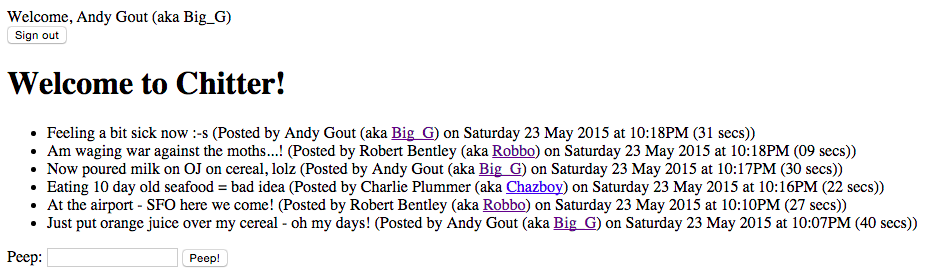
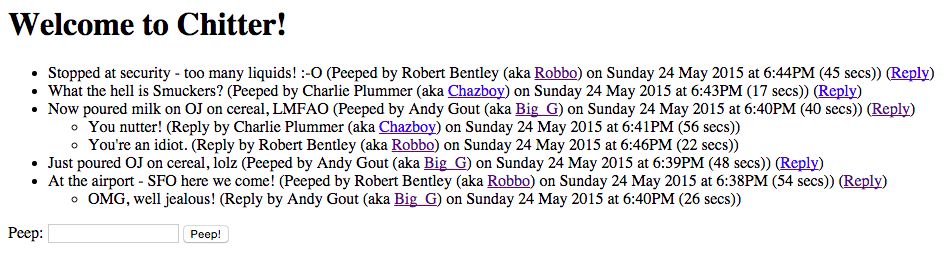
Further tests/README.md updated

Changed region(s): [[0.0, 0.248, 0.9946, 0.8268], [0.0, 0.0276, 0.3108, 0.1654], [0.0, 0.8819, 0.2487, 0.9646]]

diff --git a/spec/features/replying_to_peeps_spec.rb b/spec/features/replying_to_peeps_spec.rb
@@ -8,26 +8,26 @@ feature 'User replies to peep of another user' do
   before(:each) do
     sign_up
     add_peep('Peep #1')
-    sign_up('Robbo', 'Robert Bentley', 'sample@test.com', 'PandaFire123!', 'PandaFire123!')
-    click_link('Reply')
-    fill_in :text, with: 'Reply #1'
-    click_button('Reply!')
+    sign_up('Robbo', 'Robert Bentley', 'sample@test.com', 'FirePanda789!', 'FirePanda789!')
+    add_reply('Reply #1')
+    add_reply('Reply #2')
   end
 
   scenario 'when on the home page' do
     expect(page).to have_content('Reply #1')
   end
 
-  # scenario 'with username and name for each peep' do
-  #   expect(page).to have_content('Posted by Andy Gout (aka Big_G)')
-  # end
+  scenario 'with username and name for each reply' do
+    expect(page.first('li ul li')).to have_content('Reply by Robert Bentley (aka Robbo)')
+  end
 
-  # scenario 'with timestamp of when each peep was posted' do
-  #   expect(page).to have_content(/[A-Z][a-z]{5,8} [123]*[0-9] [A-Z][a-z]{2,8} [0-9]{4} at [1]*[0-9]:[0-5][0-9](A|P)M \([0-5][0-9] secs\)/)
-  # end
+  scenario 'with timestamp of when reply was posted' do
+    expect(page.first('li ul li')).to have_content(/[A-Z][a-z]{5,8} [123]*[0-9] [A-Z][a-z]{2,8} [0-9]{4} at [1]*[0-9]:[0-5][0-9](A|P)M \([0-5][0-9] secs\)/)
+  end
 
-  # scenario 'in reverse chronology' do
-  #   expect(page).to have_selector('li:nth-child(1)', text: 'Peep #2')
-  # end
+  scenario 'and sees replies displayed in chronological order' do
+    expect(page).to have_selector('li ul li:nth-child(1)', text: 'Reply #1')
+    expect(page).to have_selector('li ul li:nth-child(2)', text: 'Reply #2')
+  end
 
 end

diff --git a/spec/reply_spec.rb b/spec/reply_spec.rb
@@ -1,0 +1,42 @@
+require 'spec_helper'
+
+describe Reply do
+
+  context 'Checking DataMapper can create and delete entries' do
+
+    it 'Should be created and retrieved from the db' do
+      User.create(username: 'Big G',
+                  name: 'Andy Gout',
+                  email: 'example@test.com',
+                  password: 'P0tat0M0nkey123!',
+                  password_confirmation: 'P0tat0M0nkey123!')
+      user1 = User.first
+      User.create(username: 'Robbo',
+                  name: 'Robert Bentley',
+                  email: 'sample@test.com',
+                  password: 'FirePanda789!',
+                  password_confirmation: 'FirePanda789!')
+      user2 = User.last
+      Peep.create(text: 'Peep #1',
+                  time: Time.now,
+                  user_id: user1.id)
+      peep = Peep.first
+      expect(Reply.count).to eq(0)
+      time = Time.now
+      Reply.create(text: 'Reply #1',
+                   time: time,
+                   user_id: user2.id,
+                   peep_id: peep.id)
+      expect(Reply.count).to eq(1)
+      reply = Reply.first
+      expect(reply.text).to eq('Reply #1')
+      expect(reply.time).to eq(time)
+      expect(reply.user_id).to eq(user2.id)
+      expect(reply.peep_id).to eq(peep.id)
+      reply.destroy
+      expect(Reply.count).to eq(0)
+    end
+
+  end
+
+end

diff --git a/spec/features/helpers/session.rb b/spec/features/helpers/session.rb
@@ -3,8 +3,8 @@ module SessionHelpers
   def sign_up(username = 'Big G',
               name = 'Andy Gout',
               email = 'example@test.com',
-              password = 'P0tat0M0nkey!',
-              password_confirmation = 'P0tat0M0nkey!')
+              password = 'P0tat0M0nkey123!',
+              password_confirmation = 'P0tat0M0nkey123!')
     visit '/users/new'
     expect(page.status_code).to eq(200)
     fill_in :username, with: username
@@ -17,16 +17,22 @@ module SessionHelpers
 
   def sign_in(email, password)
     visit '/sessions/new'
-    fill_in 'email', with: email
-    fill_in 'password', with: password
+    fill_in :email, with: email
+    fill_in :password, with: password
     click_button 'Sign in'
   end
 
   def add_peep(text)
     within('#new-peep') do
-      fill_in 'text', with: text
+      fill_in :text, with: text
       click_button 'Peep!'
     end
+  end
+
+  def add_reply(text)
+    click_link('Reply')
+    fill_in :text, with: text
+    click_button('Reply!')
   end
 
 end

diff --git a/spec/peep_spec.rb b/spec/peep_spec.rb
@@ -1,0 +1,30 @@
+require 'spec_helper'
+
+describe Peep do
+
+  context 'Checking DataMapper can create and delete entries' do
+
+    it 'Should be created and retrieved from the db' do
+      User.create(username: 'Big G',
+                  name: 'Andy Gout',
+                  email: 'example@test.com',
+                  password: 'P0tat0M0nkey123!',
+                  password_confirmation: 'P0tat0M0nkey123!')
+      user = User.first
+      expect(Peep.count).to eq(0)
+      time = Time.now
+      Peep.create(text: 'Peep #1',
+                  time: time,
+                  user_id: user.id)
+      expect(Peep.count).to eq(1)
+      peep = Peep.first
+      expect(peep.text).to eq('Peep #1')
+      expect(peep.time).to eq(time)
+      expect(peep.user_id).to eq(user.id)
+      peep.destroy
+      expect(Peep.count).to eq(0)
+    end
+
+  end
+
+end

diff --git a/spec/features/listing_all_peeps_spec.rb b/spec/features/listing_all_peeps_spec.rb
@@ -23,8 +23,10 @@ feature 'User views all peeps' do
     expect(page).to have_content(/[A-Z][a-z]{5,8} [123]*[0-9] [A-Z][a-z]{2,8} [0-9]{4} at [1]*[0-9]:[0-5][0-9](A|P)M \([0-5][0-9] secs\)/)
   end
 
-  scenario 'in reverse chronology' do
+  scenario 'in reverse chronological order' do
     expect(page).to have_selector('li:nth-child(1)', text: 'Peep #2')
+    expect(page).to have_selector('li:nth-child(2)', text: 'Peep #1')
+
   end
 
 end

diff --git a/app/controllers/application.rb b/app/controllers/application.rb
@@ -1,4 +1,3 @@
 get '/' do
-  @peeps = Peep.all
   erb :index
 end

diff --git a/README.md b/README.md
@@ -5,17 +5,20 @@
 Chitter Challenge
 =================
 
-Next Steps
--------
-
-- Allow users to reply to other users' peeps.
-- CSS styling (poss. w/ Bootstrap?).
-- Password recovery functionality.
-
 Challenge:
 -------
 
 A Twitter clone that will allow the users to post messages to a public stream.
+
+Next Steps
+-------
+
+- Raise error if user tries to respond to own peep (can this also be enforced at DB level?).
+- Additional tests to ensure user feed page includes no other user's peeps.
+- Additional tests to ensure no blank entries for: username/name/email/pword/pwrod confirmation; peeps; replies (again, can this be enforced at DB level?).
+- Password recovery functionality.
+- CSS styling (poss. w/ Bootstrap?).
+- Partials.
 
 Technologies Used
 -------
@@ -30,6 +33,29 @@ Links:
 
 [Makers Academy Bookmark Manager tutorial](https://github.com/makersacademy/course/blob/master/bookmark_manager/bookmark_manager.md)
 
+Database layout:
+-------
+
+- users
+| id | username | name           | email            | password_digest |
+| ---|:--------:| --------------:|-----------------:|----------------:|
+| 1  | Big_G    | Andy Gout      | example@test.com | $5f$96$Gcja...  |
+| 2  | Robbo    | Robert Bentley | sample@test.com  | $4w$00$Wdic...  |
+
+- peeps
+| id | text                         | time                       | user_id |
+| ---|:----------------------------:| --------------------------:|--------:|
+| 1  | Now poured milk on OJ on...  | 2015-05-24 11:01:04.090368 | 1       |
+| 2  | Feeling a bit sick now...    | 2015-05-24 11:14:13.069034 | 1       |
+| 3  | At the airport - SFO here... | 2015-05-24 11:37:32.564842 | 2       |
+
+- replies
+| id | text                         | time                       | user_id | peep_id |
+| ---|:----------------------------:| --------------------------:|--------:|--------:|
+| 1  | OMG, well jealous...         | 2015-05-24 11:49:41.668771 | 1       | 3       |
+| 2  | Never mix OJ and milk...     | 2015-05-24 11:50:14.144025 | 2       | 2       |
+| 3  | Take some painkillers...     | 2015-05-24 11:53:31.80567  | 2       | 2       |
+
 Images:
 -------
 
@@ -38,6 +64,9 @@ Images:
 
 - Home Page
 ![Screenshot Home Page](/public/git_img/home_page.png)
+
+- Add Reply
+![Screenshot Add Reply](/public/git_img/add_reply.png)
 
 - User Feed
 ![Screenshot User Feed](/public/git_img/user_feed.png)
